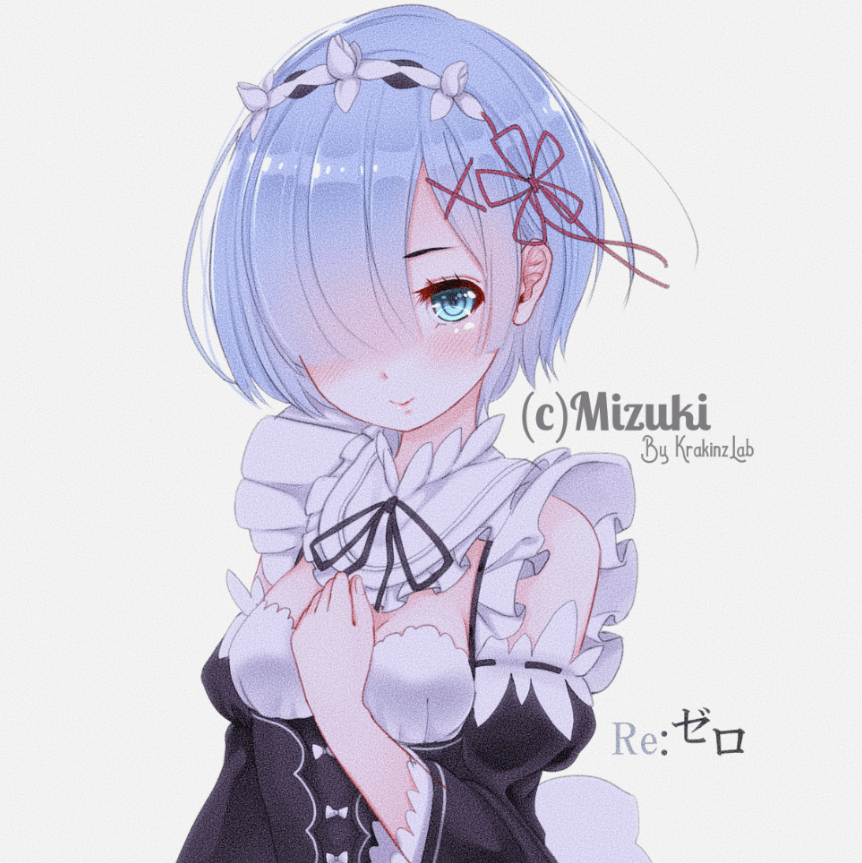
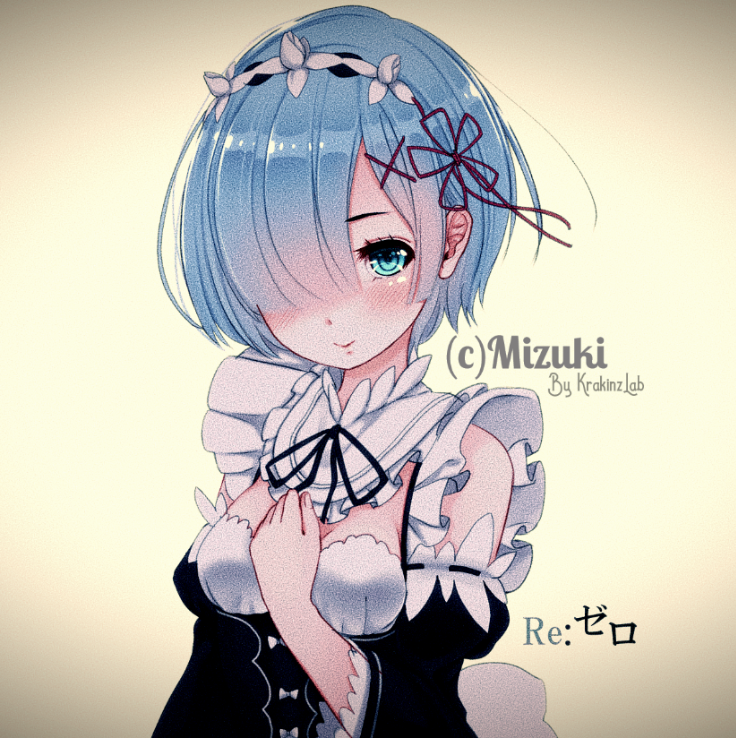
🍁爪𝖎𝖟𝖚ӄ𝖎™-Beta-v21.4

diff --git a/ʍɨʐʊӄɨ🛰ֆɛʀʋɛʀ/_𝔏𝔞𝔟_.js b/ʍɨʐʊӄɨ🛰ֆɛʀʋɛʀ/_𝔏𝔞𝔟_.js
@@ -8,7 +8,10 @@ if (fs.existsSync(`ʍɨʐʊӄɨ☣ƈօʀɛ.env`)) {
 } else {
   require(`dotenv`);
 }
-var ᴛ = [`https://i.postimg.cc/T1cTxHMb/image.png`];
+var ᴛ = [
+  `https://i.postimg.cc/T1cTxHMb/image.png`,
+  `https://i.postimg.cc/nLrDRg9C/image.png`,
+];
 const MizukiMain = ᴛ[Math.floor(Math.random() * ᴛ.length)];
 // ⬡ ™𝐊𝐫𝐚𝐤𝐢𝐧𝐳 ⬡==========================⬡    🍁 (c)爪𝖎𝖟𝖚ӄ𝖎 🍁    ⬡==========================⬡ 𝐋𝐚𝐛™ ⬡
 const env = {
